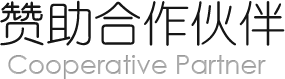
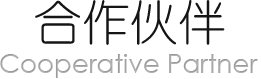
会议修改

diff --git a/demo/meeting/index.html b/demo/meeting/index.html
@@ -312,7 +312,7 @@
                         <img src="./images/mlogo_2.png" alt="">
                     </a>
                 </li>
-                <li class="partner" style="margin:auto">
+                <li class="partner" style="margin:0">
                     <a href="https://www.concur.cn/" target="_blank" class="ad">
                         <img src="./images/qlogo_1.png" alt="">
                     </a>
@@ -330,7 +330,7 @@
                         <img src="./images/qlogo_8.png" alt="">
                     </a>
                 </li>
-                <li class="partner" style="margin:auto">
+                <li class="partner" style="margin:0">
                     <a href="http://www.terrake.com" target="_blank" class="ad">
                         <img src="./images/qlogo_6.png" alt="">
                     </a>
@@ -344,7 +344,7 @@
                         <img src="./images/qlogo_11.png" alt="">
                     </a>
                 </li>
-                <li class="partner" style="margin:auto">
+                <li class="partner" style="margin:0">
                     <a href="http://www.eventown.com.cn/" target="_blank" class="ad">
                         <img src="./images/qlogo_7.png" alt="">
                     </a>

diff --git a/demo/meeting/css/main.css b/demo/meeting/css/main.css
@@ -89,7 +89,7 @@ img { vertical-align: middle; -ms-interpolation-mode: bicubic; }
 /* cooperation style */
 
 .cooperation { margin-top: 30px; padding: 0 0 30px; background-color: #ededed; }
-.cooperation .cooperation-title { width: 285px; height: 79px; margin: 0 auto; padding: 10px 0; background: url(../images/Partner.png) no-repeat; }
+.cooperation .cooperation-title { width: 261px; height: 79px; margin: 0 auto; padding: 10px 0; background: url(../images/Partner.png) no-repeat; }
 .cooperation .partner { position: relative; overflow: hidden; margin: 30px 0; font-size: 18px; color: #333; }
 .cooperation .partner-title { position: absolute; top: 0; left: 0; display: inline-block; width: 120px; padding-top: 25px; }
 .cooperation .ad { display: inline-block; float: left; margin: 0 75px 15px 0; vertical-align: middle; border: 1px solid #d4d4d4; background-color: #fff; }
